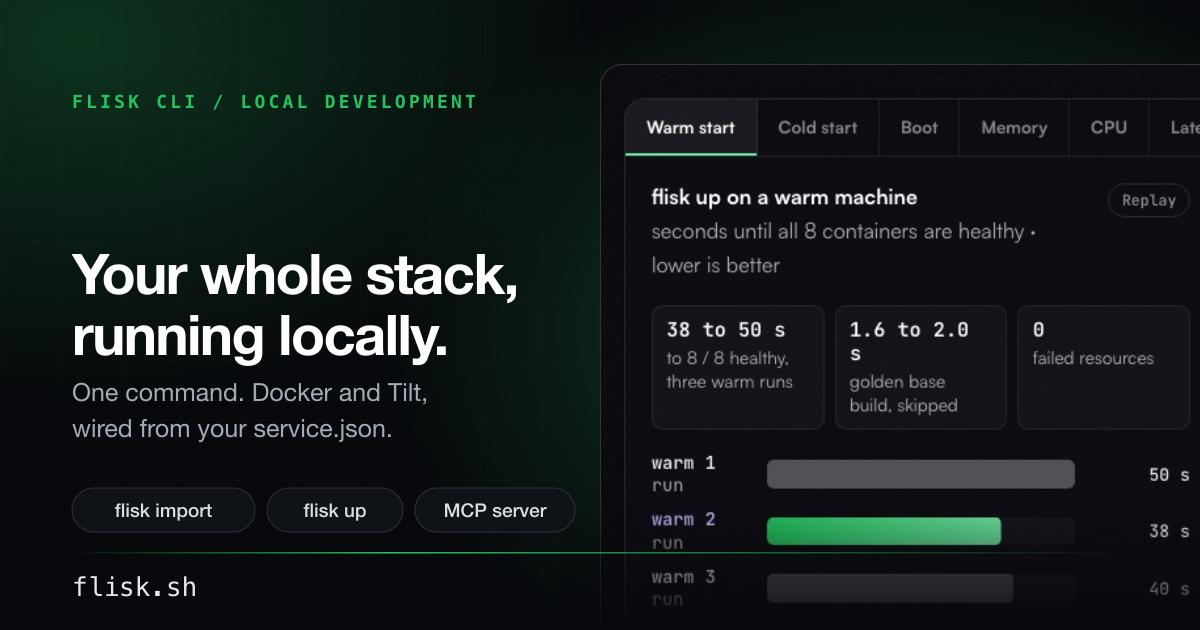
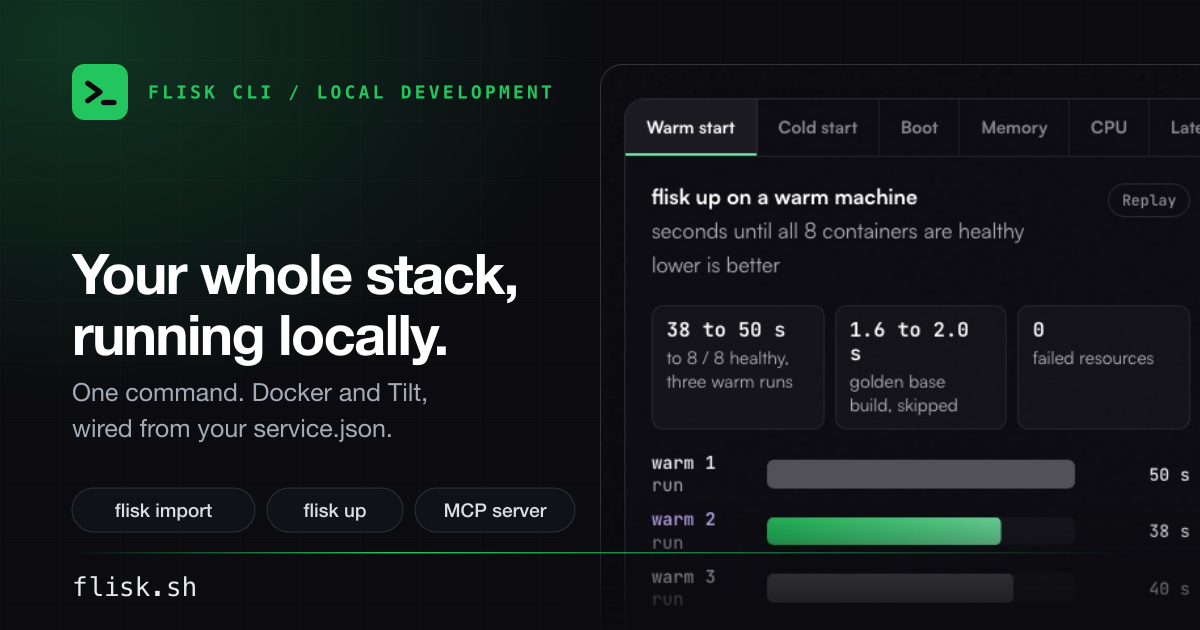
chore(brand): bring the share card in line with the Flisk card spec
Add the flisk-cli logo tile from flisk-emoji next to the kicker, keep one
top-left accent glow, move the background into the spec's near-black
range and cover the middle dot in the panel screenshot. The card URL gets
?v=2 so Cloudflare and link previews fetch the new image.

Changed region(s): [[0.0617, 0.0905, 0.4625, 0.2111]]

diff --git a/_layouts/default.html b/_layouts/default.html
@@ -108,7 +108,7 @@
       }
     </script>
   {% else %}
-    {% assign social_image_url = site.url | append: site.baseurl | append: '/assets/images/flisk-social-card.png' %}
+    {% assign social_image_url = site.url | append: site.baseurl | append: '/assets/images/flisk-social-card.png?v=2' %}
     {% assign canonical_url = page.url | absolute_url %}
     {% assign page_title = page.title | default: site.title %}
     {% assign page_description = page.description | default: site.description | strip_newlines | strip %}

diff --git a/index.html b/index.html
@@ -2,7 +2,7 @@
 layout: default
 title: "Flisk: the local runtime your AI agent can start, check and fix"
 description: Run your whole multi-service app locally with one command, from a Compose file or plain commands. An MCP server lets Claude Code, Cursor and Codex start it, read its health and logs, and fix what breaks. Free, MIT.
-image: /assets/images/flisk-social-card.png
+image: /assets/images/flisk-social-card.png?v=2
 ---
 
 
